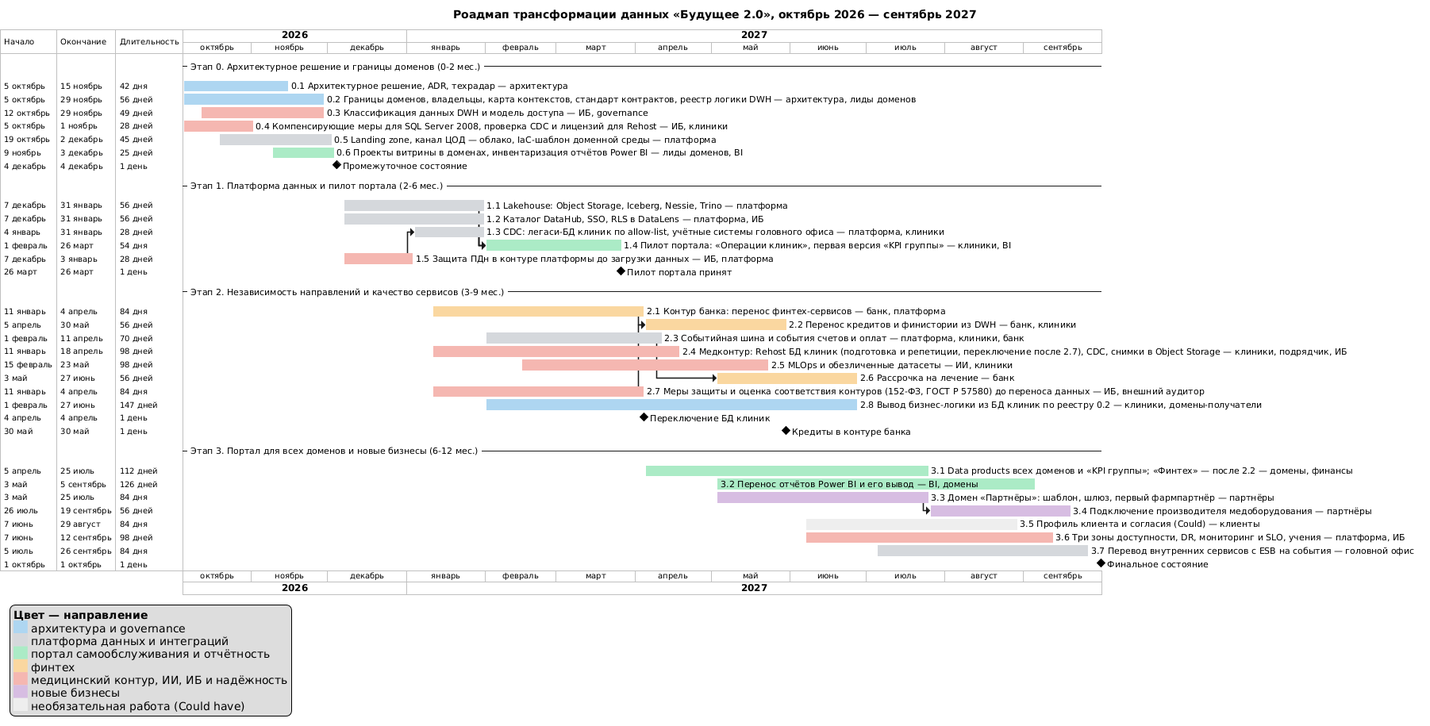
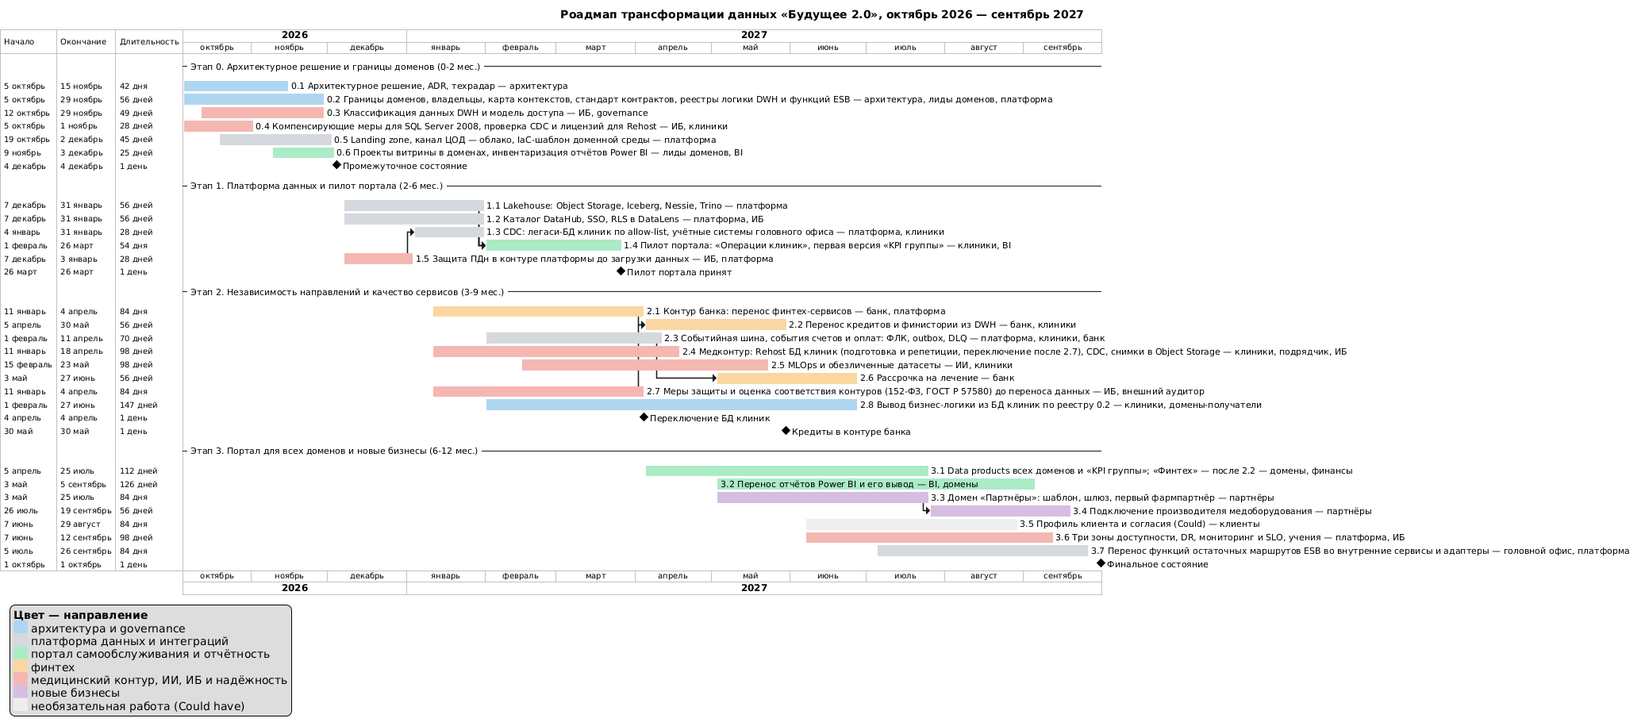
Task1, Task3: согласовать роадмап и радар с переносом функций ESB

diff --git a/Task3/roadmap.md b/Task3/roadmap.md
@@ -18,7 +18,7 @@
 | Направление | Работы роадмапа |
 |---|---|
 | **Запуск портала самообслуживания** | 0.3 классификация данных и модель доступа, 0.6 проекты витрины в доменах, 1.1–1.4 платформа данных и пилот портала, 3.1 data products всех доменов, 3.2 перенос отчётов и вывод Power BI |
-| **Независимое развитие подразделений** | 0.2 границы доменов, карта контекстов и стандарт контрактов, 0.5 шаблон доменной среды, 2.1–2.2 контур банка и перенос банковских данных, 2.3 событийная шина, 2.5 MLOps, 2.6 рассрочка на лечение, 2.8 вывод бизнес-логики из БД клиник, 3.3–3.4 домен «Партнёры», 3.5 профиль клиента |
+| **Независимое развитие подразделений** | 0.2 границы доменов, карта контекстов, стандарт контрактов и реестр функций ESB, 0.5 шаблон доменной среды, 2.1–2.2 контур банка и перенос банковских данных, 2.3 событийная шина, 2.5 MLOps, 2.6 рассрочка на лечение, 2.8 вывод бизнес-логики из БД клиник, 3.3–3.4 домен «Партнёры», 3.5 профиль клиента, 3.7 перенос функций остаточных маршрутов ESB |
 | **Качество медицинских и финансовых сервисов** | 0.3 классификация медицинских данных, 0.4 компенсирующие меры для SQL Server 2008, 1.5 защита ПДн в контуре платформы, 2.1 изолированный контур банка с отказоустойчивыми БД, 2.2 перенос кредитов со сверкой, 2.4 медицинский контур и вынос снимков из СУБД с планом отката, 2.5 обучение ИИ только на обезличенных данных, 2.7 оценка соответствия контуров, 3.6 три зоны доступности, DR, мониторинг и SLO |
 
 ## Этапы
@@ -30,7 +30,7 @@
 | Работа | Ответственные команды |
 |---|---|
 | 0.1 Архитектурное решение, ADR на ключевые решения, технический радар | Архитектура и governance |
-| 0.2 Границы доменов и владельцы; карта контекстов с ключевыми связями между доменами; стандарт контрактов событий и data products; контракт на обезличенные датасеты для ИИ; реестр бизнес-логики DWH с доменом-получателем для каждой процедуры | Архитектура, лиды доменов |
+| 0.2 Границы доменов и владельцы; карта контекстов с ключевыми связями между доменами; стандарт контрактов событий и data products; контракт на обезличенные датасеты для ИИ; реестр бизнес-логики DWH с доменом-получателем для каждой процедуры; реестр маршрутов ESB: ФЛК, пакетные и потоковые трансформации, маршрутизация, обработка ошибок и паттерны надёжности, интеграционная и бизнес-логика, владелец, целевой компонент и критерии переключения | Архитектура, лиды доменов, платформенная команда |
 | 0.3 Классификация таблиц DWH (медицинские, банковские, прочие) и модель доступа по уровням | ИБ, governance |
 | 0.4 Компенсирующие меры для SQL Server 2008: сетевая изоляция, проверка восстановления из бэкапа. Проверка редакции СУБД и возможности CDC, наличия образа Windows Server и лицензий SQL Server 2008 для Rehost. Договор с подрядчиком на сопровождение АРМ | ИБ, команда клиник |
 | 0.5 Landing zone в Yandex Cloud: облака медконтура, банка и платформы, сети, IAM, ключи KMS, IaC-шаблон доменной среды. Канал связи собственного ЦОД с облаком (Cloud Interconnect, на время его подключения — site-to-site VPN): по нему до переезда БД клиник идут CDC и перенос данных | Платформенная команда |
@@ -43,7 +43,8 @@
   - шесть доменов с утверждёнными владельцами;
   - ключевые связи между доменами описаны в карте контекстов;
   - стандарт контрактов утверждён;
-  - для каждой процедуры бизнес-логики DWH известен домен-получатель.
+  - для каждой процедуры бизнес-логики DWH известен домен-получатель;
+  - для каждого маршрута ESB зафиксированы функции, владелец, целевой компонент и критерии переключения и отката.
 - **Данные и доступ:**
   - 100 % таблиц DWH классифицированы;
   - ролевая модель доступа утверждена.
@@ -98,7 +99,7 @@
 |---|---|
 | 2.1 Контур банка: перенос финтех-сервисов в Managed Kubernetes, банковские БД — Managed PostgreSQL в трёх зонах доступности | Команда банка, платформенная команда |
 | 2.2 Перенос кредитов и финансовой истории из DWH: параллельная работа и ежедневная сверка | Команда банка, команда клиник |
-| 2.3 Событийная шина Kafka со Schema Registry, события «счёт выставлен» и «счёт оплачен» | Платформенная команда, команды клиник и банка |
+| 2.3 Событийная шина Kafka со Schema Registry, события «счёт выставлен» и «счёт оплачен»: перенос ФЛК и преобразований в адаптер клиник и сервисы банка, transactional outbox, дедупликация, retry и DLQ в соответствующих контурах. Проверка повторной доставки и восстановления до переключения маршрутов | Платформенная команда, команды клиник и банка |
 | 2.4 Медицинский контур: Rehost БД клиник с планом переключения и отката, переключение CDC (Data Transfer, Debezium) на перенесённую БД, вынос снимков в Object Storage, адаптер событий, доработка АРМ. Подготовка целевой ВМ и репетиции переезда идут параллельно с оценкой 2.7, само переключение — после её завершения (веха «Переключение БД клиник») | Команда клиник, подрядчик по миграции, ИБ |
 | 2.5 MLOps и обезличенные датасеты по контракту с клиниками | Команда ИИ, команда клиник |
 | 2.6 Новый продукт «рассрочка на лечение» на событиях клиник | Команда банка |
@@ -110,7 +111,8 @@
 - **Финтех:**
   - банк работает в собственном контуре;
   - кредиты и финансовая история больше не хранятся в DWH, расхождений по сверке нет;
-  - рассрочка на лечение запущена без доработки DWH и клинических систем.
+  - рассрочка на лечение запущена без доработки DWH и клинических систем;
+  - события счетов проходят ФЛК, outbox обеспечивает публикацию после фиксации операции, повторная доставка не создаёт повторную оплату; восстановление из DLQ проверено.
 - **Клиники и ИИ:**
   - бизнес-логика финтеха и ИИ удалена из БД клиник: 100 % процедур финтеха и ИИ из реестра 0.2 отключены (работа 2.8);
   - снимки хранятся в объектном хранилище;
@@ -137,7 +139,9 @@
 | 3.4 Подключение производителя медоборудования | Команда партнёрских интеграций |
 | 3.5 Профиль клиента и согласия (Could have: выполняется при наличии ресурсов) | Команда домена «Клиенты» |
 | 3.6 Размещение критичных систем в трёх зонах доступности (разные ЦОД региона), план DR, мониторинг и SLO записи пациентов и платежей, учения по восстановлению | Платформенная команда, ИБ |
-| 3.7 Перевод внутренних сервисов с ESB на события | Головной офис, платформенная команда |
+| 3.7 Перенос функций остаточных маршрутов ESB во внутренние сервисы и адаптеры по реестру 0.2: ФЛК, пакетные и потоковые трансформации, маршрутизация, надёжность, интеграционная и бизнес-логика | Головной офис, платформенная команда |
+
+Маршруты переключаются по [порядку перехода от ESB](../Task1/README.md#порядок-переключения-маршрутов): теневое сравнение без повторных операций, сверка результатов, один активный путь записи, проверенный откат и обработка остатка очередей. Правила принимает домен-получатель, платформенная команда сопровождает среду исполнения.
 
 **Ожидаемые результаты:**
 
@@ -153,7 +157,7 @@
   - восстановление проверено учениями;
   - для записи пациентов и платежей действуют SLO.
 - **Легаси:**
-  - ESB обслуживает только оставшиеся внутренние обмены;
+  - ESB сохраняет только остаточные внутренние маршруты со всеми ФЛК, трансформациями, маршрутизацией, механизмами надёжности, интеграционной и бизнес-логикой до приёмки замены; у каждого маршрута есть владелец и срок вывода;
   - легаси (БД клиник и АРМ) сохраняется только в домене «Клиники».
 - **Радар:** в Adopt переходят Data Mesh, data products и контракты, DataHub, Yandex API Gateway, SLO для критичных сервисов.
 
@@ -212,7 +216,7 @@
 | 0. Архитектурное решение и границы доменов | У каждого домена есть владелец, который решает сам, без очереди в центральную команду | Сразу снижается риск инцидента с неподдерживаемой СУБД, где лежат медданные | Минимальные затраты: проектирование и landing zone за 0,2–0,4 млн ₽ в месяц. Ошибка в границах доменов обошлась бы дороже, чем два месяца проектирования | Шаблон доменной среды готовит подключение новых направлений | Минимизация ущерба, инвестиция |
 | 1. Платформа данных и пилот портала | Отчёты пилотных доменов строятся за минуты вместо часов, руководство получает данные к моменту решения | Аналитическая нагрузка снята с БД, с которой работают операторы клиник | Оплата облака по факту вместо закупки оборудования под сотни терабайт | Платформа масштабируется горизонтально, новый домен добавляет data products без доработки хранилища | Инвестиция |
 | 2. Независимость направлений | Финтех и ИИ выпускают продукты в своём ритме: рассрочка на лечение и новые модели — без очереди в DWH | Изоляция медицинских и банковских данных, отказоустойчивые банковские БД, подтверждённое соответствие контуров требованиям, обучение ИИ только на обезличенных данных | Выводится часть on-prem оборудования, снижается нагрузка на центральную команду | Независимые релизы и инфраструктура каждого направления | Инвестиция, минимизация ущерба |
-| 3. Портал для всех доменов и новые бизнесы | Самообслуживание для всех сотрудников в пределах уровня доступа, единые KPI группы | Три зоны доступности, проверенный DR и SLO для записи пациентов и платежей | Вывод Power BI и большей части собственного ЦОД, ESB остаётся только для внутренних обменов | Фарма и производитель оборудования подключаются по шаблону за недели, а не за месяцы доработки DWH | Экономия, инвестиция в рост выручки |
+| 3. Портал для всех доменов и новые бизнесы | Самообслуживание для всех сотрудников в пределах уровня доступа, единые KPI группы | Три зоны доступности, проверенный DR и SLO для записи пациентов и платежей | Вывод Power BI и большей части собственного ЦОД, ESB сохраняет полный набор функций остаточных внутренних маршрутов до приёмки их замены | Фарма и производитель оборудования подключаются по шаблону за недели, а не за месяцы доработки DWH | Экономия, инвестиция в рост выручки |
 
 ## Оценка систем по модели TIME
 
@@ -221,10 +225,10 @@
 | DWH на MS SQL Server 2008 | Низкая: снят с поддержки, не масштабируется | Высокая: на нём держится работа клиник | Migrate | Rehost в медконтур, Retire бизнес-логики и аналитики, замена СУБД — после года | 0.4, 1.3, 2.2, 2.4 |
 | Power BI | Средняя: риски лицензирования и доступности | Низкая: нет самообслуживания, отчёты делает центральная команда | Eliminate | Repurchase: портал на DataLens | 3.2 |
 | АРМ на PowerBuilder | Низкая: устаревший стек | Высокая: рабочее место операторов | Migrate (после года) | Retain на переходный период с минимальной доработкой | 2.4 |
-| ESB на Apache Camel | Низкая: единая точка отказа | Низкая для новых сценариев | Eliminate | Retain для оставшихся внутренних обменов на год, затем Retire | 2.3, 3.7 |
+| ESB на Apache Camel | Низкая: единая точка отказа | Высокая для действующих маршрутов: проверки, трансформации и логика обеспечивают операции | Migrate | Refactor функций в доменные сервисы, адаптеры и аналитические пайплайны; Retain остаточных внутренних маршрутов со всеми правилами; Retire после приёмки замены | 0.2, 2.3–2.5, 3.7 |
 | ИИ-сервисы на Python | Высокая | Высокая | Invest | Replatform на Managed Kubernetes и MLOps | 2.5 |
 | Финтех-сервисы на Go и Java | Высокая | Высокая | Invest | Rehost и Replatform в контур банка | 2.1, 2.6 |
-| Внутренние сервисы головного офиса | Высокая: поддерживаемые учётные системы | Высокая | Invest | Retain систем, интеграции переводятся с ESB на события | 3.7 |
+| Внутренние сервисы головного офиса | Высокая: поддерживаемые учётные системы | Высокая | Invest | Retain систем; функции маршрутов ESB переходят во внутренние сервисы и их адаптеры | 3.7 |
 
 ## Риски роадмапа
 

diff --git a/Task1/README.md b/Task1/README.md
@@ -47,9 +47,9 @@ ESB на Apache Camel рассматривается как исполняемы
 | Функция ESB | Куда переходит и как исполняется | Владелец и бизнес-эффект |
 |---|---|---|
 | ФЛК | Адаптер событий клиник, обработчик партнёрских интеграций и обработчики в доменных сервисах проверяют обязательные поля, типы, диапазоны и связи полей. Schema Registry хранит версии схем и правила совместимости; проверку сообщений выполняют producer/consumer. Правила предметной области (например, допустимость оплаты счёта) проверяет сервис домена. Невалидные сообщения изолируются в карантине с причиной | Доменные команды задают правила, платформа — общий формат ошибок. С3, С5, С6: ошибочные данные не запускают операции и не попадают в опубликованные продукты |
-| Пакетные трансформации | Доменные data products на Spark выполняют очистку, нормализацию, объединение и агрегирование данных; Airflow управляет расписанием, зависимостями и повторными запусками. Операционные пакетные обмены остаются в заданиях доменных адаптеров, без зависимости от аналитического Lakehouse | Data-команды и команды сервисов соответствующих доменов. С1, С5: отчётность ускоряется, новый бизнес не требует доработки DWH |
+| Пакетные трансформации | Операционные пакетные обмены выполняются заданиями доменных адаптеров: платёжные реестры — в контуре банка, выгрузки в учёт — во внутренних сервисах головного офиса, без зависимости от аналитического Lakehouse. Аналитические трансформации разрешённых данных выполняют доменные data products на Spark; Airflow управляет расписанием, зависимостями и повторными запусками | Data-команды и команды сервисов соответствующих доменов. С1, С5: отчётность ускоряется, новый бизнес не требует доработки DWH |
 | Потоковые трансформации | Долгоживущие обработчики Kafka в адаптере клиник, обработчике партнёров и доменных сервисах преобразуют сообщения, обогащают их разрешёнными справочниками и публикуют события целевого контракта. Исполняются в среде своего домена, отдельно от пакетных DAG | Доменные команды. С3, С5: изменения форматов и оперативная обработка развиваются независимо |
-| Маршрутизация | Партнёрский API Gateway направляет HTTPS-запросы в обработчик партнёров. Доменные адаптеры выбирают получателя по содержимому и публикуют события в согласованные Kafka topics; consumer groups определяют подписчиков. Синхронные вызовы идут в API доменов | Доменные команды поддерживают правила, платформа — topics и ACL. С4, С5: новые получатели подключаются без общего релиза ESB |
+| Маршрутизация | Партнёрский API Gateway направляет HTTPS-запросы в обработчик партнёров. Доменные адаптеры выбирают получателя по содержимому и публикуют события в согласованные Kafka topics; каждый получатель читает нужные topics своей consumer group. Синхронные вызовы идут в API доменов | Доменные команды поддерживают правила, платформа — topics и ACL. С4, С5: новые получатели подключаются без общего релиза ESB |
 | Паттерны надёжности | В сервисах и адаптерах: transactional outbox при публикации события вместе с изменением БД, дедупликация по event ID / inbox у потребителя, ограниченные retry с backoff, DLQ и управляемый replay. Для синхронных вызовов — timeout и circuit breaker; для пакетов — контрольные точки и идемпотентная загрузка | Платформа предоставляет шаблоны и мониторинг lag, ошибок и DLQ; домен отвечает за восстановление своего потока. С3, С6: повторная доставка не создаёт повторную оплату, сбои не теряют операции |
 | Интеграционная логика | Протокольные адаптеры, преобразование внешних идентификаторов, split/aggregate, корреляция запросов и ответов — в адаптере клиник, обработчике партнёров и адаптерах внутренних сервисов. Их контракты версионируются вместе с доменными сервисами | Команда домена-получателя, для партнёров — команда партнёрских интеграций. С5: особенности внешней системы не распространяются на все домены |
 | Бизнес-логика | Правила платежей, кредитов и компенсаций — в финтех-сервисах; медицинские правила — в контуре клиник; диагностическая логика — в ИИ-сервисах; правила учёта — во внутренних сервисах. Междоменный процесс координирует сервис домена-инициатора с явным состоянием и компенсациями. Аналитические расчёты — в data products | Команды соответствующих доменов. С3, С4, С6: независимые релизы и сохранение смысла операций при миграции |
@@ -100,7 +100,7 @@ ESB на Apache Camel рассматривается как исполняемы
 | Клиенты (Could have, П11) | Профиль клиента и согласия на обработку ПДн, data product «Клиенты» | Команда клиентского домена |
 | Головной офис | Внутренние сервисы (финучёт, персонал, инвентаризация), data product «KPI группы» | Финансы и аналитика головного офиса |
 | Партнёры | Партнёрский шлюз, обработчик партнёрских интеграций, data products «Фарма» и «Оборудование» | Команда партнёрских интеграций |
-| Интеграционная платформа | Событийная шина Kafka, CDC-репликация, ESB (легаси) | Платформенная команда |
+| Интеграционная платформа | Событийная шина Kafka, CDC-репликация, ESB (легаси) | Платформенная команда — среда исполнения; правила остаточных маршрутов ESB — домены-получатели |
 | Self-serve платформа данных | Портал «Витрина данных», SQL-движок Trino, Lakehouse, каталог таблиц, оркестрация, каталог данных, управление доступом | Платформенная команда, политики задаёт группа federated governance |
 
 ## Легаси через год

diff --git a/Task3/README.md b/Task3/README.md
@@ -129,7 +129,7 @@ npm run build   # статический сайт в techradar/build
 | MS SQL Server 2008 | Платформы и инфраструктура | Adopt → Hold | С6, затраты | Новое использование запрещено. БД переносится в медицинский контур как операционная БД клиник. Кредиты, финансовая история, персонал и инвентаризация переезжают к доменам-владельцам, аналитика уходит в Lakehouse. Замена СУБД на PostgreSQL — после года, вместе с заменой АРМ. |
 | Собственная инфраструктура (on-prem) | Платформы и инфраструктура | Adopt → Hold | С6, затраты | Новые системы разворачиваются только в облаке. Оставшиеся on-prem системы мигрируют по роадмапу. |
 | Dremio | Инструменты данных и интеграции | новое | С2, затраты | Рассматривался как SQL-движок и семантический слой Lakehouse. Не используется: ролевые политики доступа к строкам и столбцам доступны только в платной Enterprise-редакции, а лицензирование зарубежного ПО несёт те же риски, что и Power BI. Штатного коннектора к DataLens нет. |
-| ESB на Apache Camel | Инструменты данных и интеграции | Adopt → Hold | С3, С4, С5 | Новые интеграции через шину не строятся. Шина обслуживает оставшиеся обмены внутренних сервисов и выводится по мере их перевода на доменные события. |
+| ESB на Apache Camel | Инструменты данных и интеграции | Adopt → Hold | С3, С4, С5 | Новые интеграции через шину не строятся. ФЛК, пакетные и потоковые трансформации, маршрутизация, надёжность, интеграционная и бизнес-логика переносятся по реестру в доменные компоненты. Camel сохраняет полный набор функций остаточных внутренних маршрутов до приёмки замены. |
 | Power BI | Инструменты данных и интеграции | Adopt → Hold | С1, С2, затраты | Новые отчёты не разрабатываются. Используемые отчёты переносятся в портал самообслуживания на DataLens, неиспользуемые и дублирующиеся выводятся. После переноса Power BI выключается. |
 
 ## Движение технологий по кольцам в ходе роадмапа
@@ -141,7 +141,7 @@ npm run build   # статический сайт в techradar/build
 | Этап 3, сентябрь 2027 | Data Mesh, data products и контракты, DataHub, Yandex API Gateway: Trial → Adopt | Все домены публикуют data products, партнёры подключены по шаблону |
 | Этап 3, сентябрь 2027 | SLO для критичных сервисов: Trial → Adopt | Учения по восстановлению проведены, SLO записи пациентов и платежей действуют |
 | Этап 3, сентябрь 2027 | Power BI: выводится из радара | Используемые отчёты перенесены в портал |
-| После года | ESB на Apache Camel, MS SQL Server 2008, PowerBuilder: выводятся из радара | Оставшиеся внутренние обмены переведены на события, БД и АРМ клиник заменены |
+| После года | ESB на Apache Camel, MS SQL Server 2008, PowerBuilder: выводятся из радара | Все функции остаточных маршрутов ESB перенесены, результаты сверены и замены приняты доменами-получателями; БД и АРМ клиник заменены |
 
 Project Nessie остаётся в Trial до подтверждения стабильности на полном объёме данных. Каждый переход фиксируется ADR. Радар пересматривается не реже раза в полгода.
 

diff --git a/Task3/techradar/radar/2026-10-01/apache-camel.md b/Task3/techradar/radar/2026-10-01/apache-camel.md
@@ -5,8 +5,8 @@ quadrant: tools
 tags: ["финтех", "ИИ", "новые-бизнесы"]
 ---
 
-**Решение.** Новые интеграции через шину не строятся. Шина обслуживает оставшиеся обмены внутренних сервисов и выводится по мере их перевода на доменные события.
+**Решение.** Новые интеграции через шину не строятся. ФЛК, пакетные и потоковые трансформации, маршрутизация, надёжность, интеграционная и бизнес-логика переносятся по реестру в доменные компоненты. Camel сохраняет полный набор функций остаточных внутренних маршрутов до приёмки замены.
 
 **Бизнес-сценарии.** Подключение новых бизнесов и независимость финтеха и ИИ: шина — единая точка отказа, каждая новая интеграция требует доработки маршрутов.
 
-**Почему Hold.** Постепенный вывод без риска для текущих обменов.
+**Почему Hold.** Kafka заменяет транспорт, а правила и обработка получают отдельных исполнителей. Реестр функций и владельцев готовится на этапе 0; критичные потоки переносятся на этапе 2, остаточные внутренние маршруты — в работе 3.7. Отключение каждого маршрута допускается после теневого сравнения, проверки повторной доставки и восстановления, сверки результатов и приёмки доменом-получателем. Платформа отвечает за среду исполнения, домены — за правила маршрутов. Это сохраняет бизнес-поведение и надёжность при поэтапном выводе центральной ESB.
